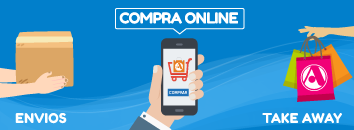
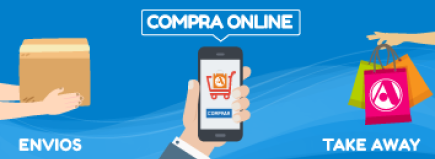
se agregaron imagen para usar en el home

diff --git a/views/index.html b/views/index.html
@@ -7,8 +7,87 @@
     <link rel="stylesheet" href="/css/style.css">
 </head>
 <body>
-    <main class="index-main">
-        <h1>hola mundo esto no funciona</h1>
+    <header>
+        
+    </header>
+    <main>
+        <section class="section_productos">
+            <h3 class="titulo-carrusel">NOVEDADES</h3>
+            <article class="article_carrusel">
+                <div class="div-Carrusel-Padre" id="conteItemsCarrusel">
+                    <div class="itemCarrusel" id="itemCarrusel-1">
+                        <div class="tarjetaCarrusel" id="tarjetaCarrusel-1">
+                            <img class="imagen1-carrusel" src="estabilizador1 1.png" alt="">
+                        </div>
+                        <div class="flechasCarrusel">
+                            <a href="#tarjetaCarrusel-3">
+                                <i>I</i>
+                                
+                            </a>
+                            <a href="#tarjetaCarrusel-2">
+                                <i>D</i>
+                            </a>
+                        </div>
+                    </div>
+                    <div class="itemCarrusel" id="itemCarrusel-2">
+                        <div class="tarjetaCarrusel" id="tarjetaCarrusel-2">
+                            <img class="imagen1-carrusel" src="estabilizador2 1.png" alt="">
+                        </div>
+                        <div class="flechasCarrusel">
+                            <a href="#tarjetaCarrusel-1">
+                                <i>I</i>
+                            </a>
+                            <a href="#tarjetaCarrusel-3">
+                                <i>D</i>
+                            </a>
+                        </div>
+                    </div>
+                    <div class="itemCarrusel" id="itemCarrusel-3">
+                        <div class="tarjetaCarrusel" id="tarjetaCarrusel-3">
+                            <img class="imagen1-carrusel" src="estabilizador1 1.png" alt="">
+                        </div>
+                        <div class="flechasCarrusel">
+                            <a href="#tarjetaCarrusel-2">
+                                <i>I</i>
+                            </a>
+                            <a href="#tarjetaCarrusel-1">
+                                <i>D</i>
+                            </a>
+                        </div>
+                    </div>
+                </div>
+                <div id="contePuntos">
+                    <a href="#tarjetaCarrusel-1">·</a>
+                    <a href="#tarjetaCarrusel-2">·</a>
+                    <a href="#tarjetaCarrusel-3">·</a>
+                    
+                </div>
+            </article>
+            <h3 class="titulo-carrusel">ARTICULOS</h3>
+            <article class="article_productos">
+                <img src="estabilizador1 1.png" alt="foto-producto">
+                <p class="p-detalle-producto">Estabilizador De Tensión Trv - Micro Volt L - 1200va(pico) F</p>
+                <h3 class="h3-precio">$ 50.000</h3>
+            </article>
+            <article class="article_productos"></article>
+            <article class="article_productos">
+                <img src="estabilizador2 1.png" alt="foto-producto">
+                <p class="p-detalle-producto">Estabilizador De Tensión Trv - Micro Volt L - 1200va(pico) F</p>
+                <h3 class="h3-precio">$ 50.000</h3>
+            </article>
+            <article class="article_productos"></article>
+            <article class="article_productos">
+                <img src="estabilizador1 1.png" alt="foto-producto">
+                <p class="p-detalle-producto">Estabilizador De Tensión Trv - Micro Volt L - 1200va(pico) F</p>
+                <h3 class="h3-precio">$ 50.000</h3>
+            </article>
+            <article class="article_productos"></article>
+            <h3 class="titulo-carrusel">VER MAS</h3>
+            <article class="article_publicidad">
+                <img class="img-minibanner1" src="minibanner1-10-06-22.png" alt="">
+            </article>
+            
+        </section>
     </main>
     <footer class="footer-father">
         <div class="footer-texto-top">

diff --git a/public/css/index.css b/public/css/index.css
@@ -1,1 +1,91 @@
-/*holaaa mundo*/
+main{
+    background-color: rgb(201, 209, 232,0.5);
+    background-image: url("circuit_bg 15.png");
+    background-repeat: no-repeat;
+}
+.section_productos{
+    
+    text-align: center;
+    width: 90%;
+    margin: 0 auto;
+    padding-top: 10px;
+}
+.titulo-carrusel{
+    display: block;
+    border-bottom: 4px solid rgb(9, 245, 213);
+    text-align: center;
+    margin-bottom: 10px;
+}
+.imagen1-carrusel{
+    
+    height: 100%;
+}
+
+
+.article_productos{
+    background-color: white;
+    margin-bottom: 10px;
+    box-shadow: 0px 0px 10px rgb(100, 100, 100);
+}
+.p-detalle-producto {
+    text-align: center;
+    font-size: 30px;
+    font-weight: bold;
+}
+.h3-precio{
+    font-size: 50px;
+    color: blue;
+}
+.img-minibanner1{
+    width: 100%;
+}
+#conteItemsCarrusel{
+    border: solid 5px blue;
+    height: 200px;
+    overflow: hidden;
+}
+.itemCarrusel{
+    background-color: black;
+    border: solid 1px black;
+    height: 100%;
+    position: relative;
+}
+.tarjetaCarrusel{
+    /*background-color: aquamarine;*/
+    height: 100%;
+}
+.flechasCarrusel{
+    /*background-color: rgba(243, 229, 210, 0.1);*/
+    position: absolute;
+    top: 0;
+    height: 100%;
+    width: 100%;
+    display: flex;
+    align-items: center;
+    justify-content: space-between;
+    padding: 0 20px;
+}
+#tarjetaCarrusel-1{
+    background-color: rgb(189, 138, 236);
+}
+#tarjetaCarrusel-2{
+    background-color: rgb(119, 194, 230);
+}
+#tarjetaCarrusel-3{
+    background-color: rgb(235, 180, 98);
+}
+#contePuntos{
+    display: flex;
+    justify-content: center;
+    font-size: 50px;
+}
+a{
+    text-decoration: none;
+    color: blueviolet;
+    cursor: pointer;
+}
+
+
+footer{
+    background-color: black;
+}
